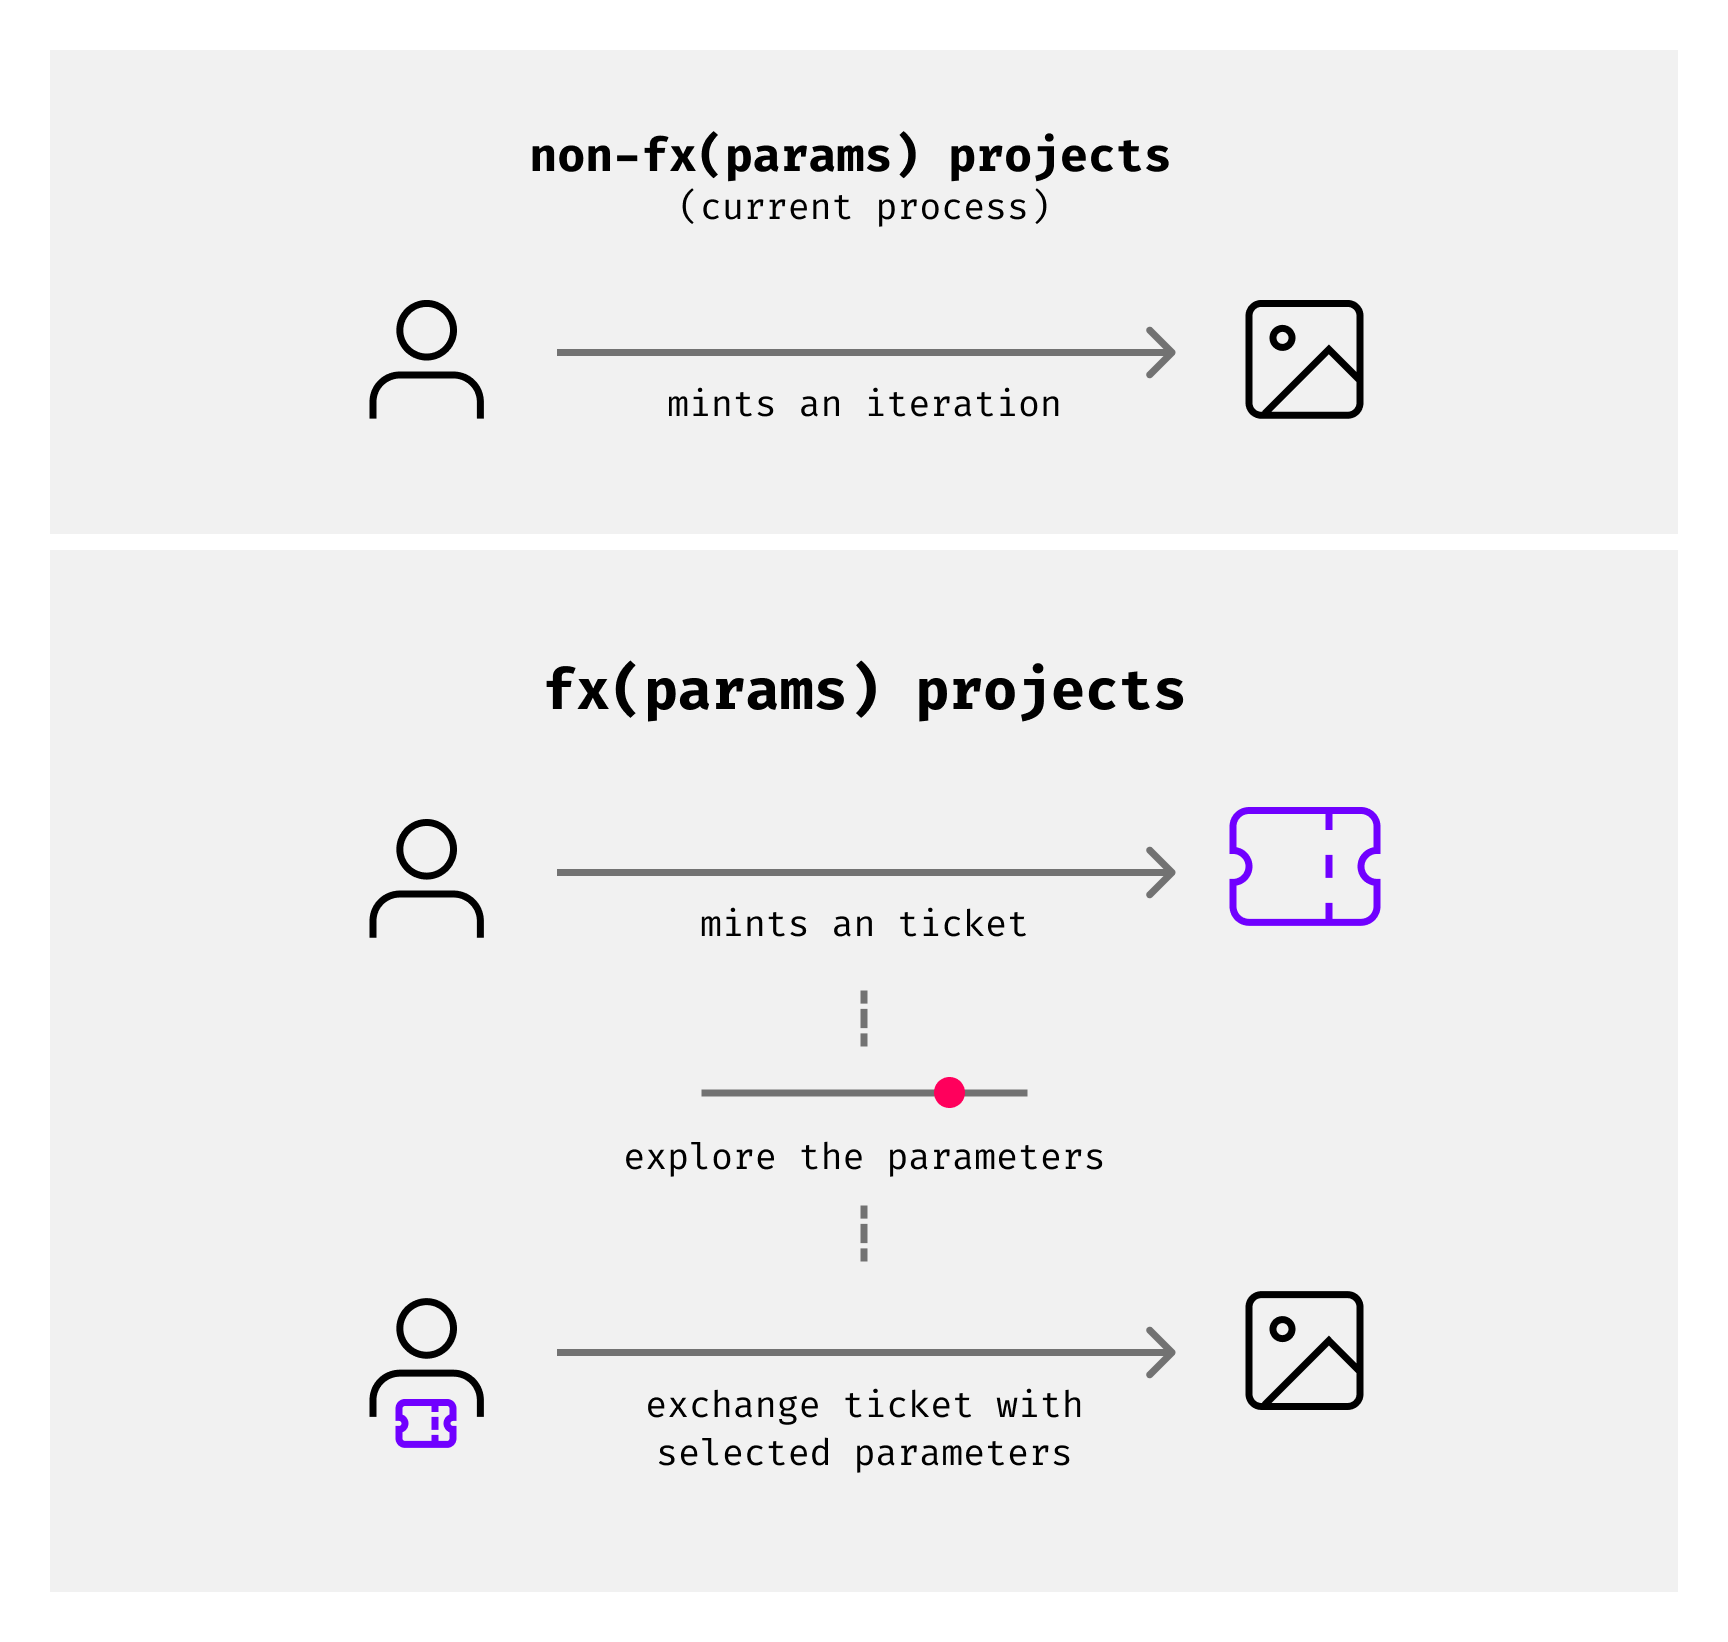
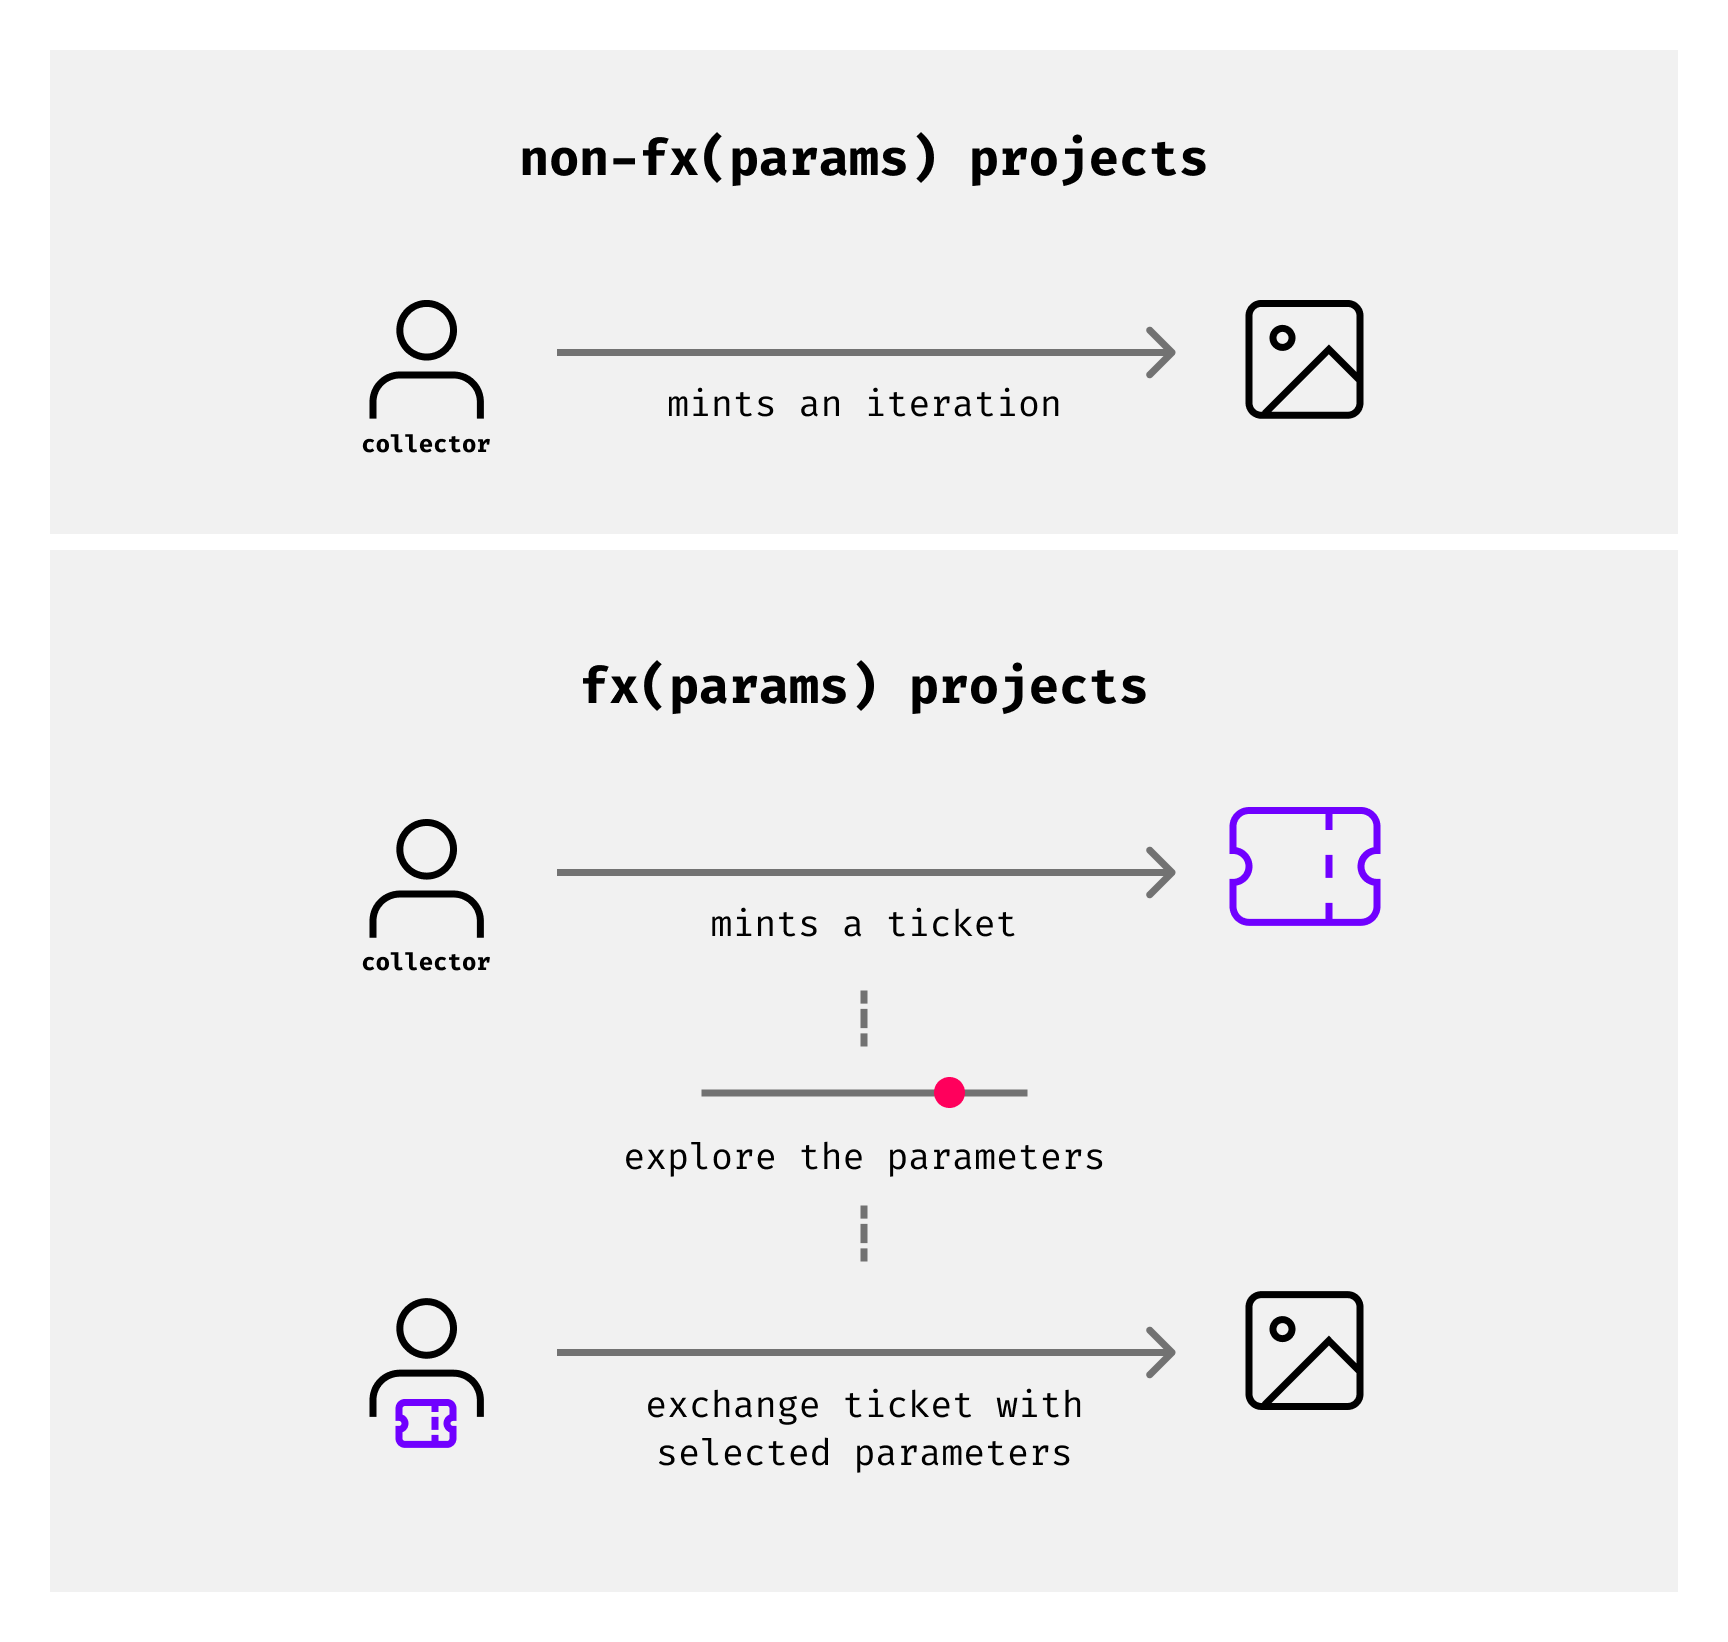
doc > collecting > fxparams

diff --git a/src/doc/collect/fxparams-mint-tickets.md b/src/doc/collect/fxparams-mint-tickets.md
@@ -1,0 +1,84 @@
+---
+title: "fx(params) and mint tickets"
+date: "2023-03-20"
+description: "Documentation on the minting pipeline with fx(params) & the mint tickets."
+---
+
+# fx(params) quick overview
+
+fx(params) is a powerful new module allowing generative artists to define a set of parameters that collectors explore, adjust, and toggle before minting. This optional feature is intended to amplify artistic powers of expression and enables collectors to collaborate in the creative process.
+
+::infobox[fx(params) was introduced by fxhash on March 20, 2023]
+
+# A refined minting experience for fx(params) projects
+
+For projects without fx(params), the minting process is quite straightforward: click on `mint`, get an iteration. Because fx(params) requires inputs from collectors, they need to have enough time to properly explore the parametric space, while having their slot to mint secured.
+
+**fx(params)** introduces an intuitive two-step minting process designed to enhance the creative experience for collectors.
+
+![minting details of fxparams projects](/images/doc/artist/fxparams/tickets.png)
+
+First, mint a ticket to an **fx(params)** project. This ticket allows you to discover endless minting possibilities by playing with different parameter combinations. Then, exchange your ticket to lock in the parameters and mint your favorite output.
+
+Our new minting process unlocks artistic exploration and experimentation like never before, empowering collectors to co-create generative art from infinite perspectives.
+
+After a ticket is bought, it can be exchanged for an iteration through the fx(params) minting interface.
+
+![fxhash minting interface for params](/images/doc/artist/fxparams/mint-interface.png)
+
+# The mint ticket mechanism
+
+The **fx(params)** two-step minting process introduces new dynamics, such as:
+
+- Time needed to explore parameters before minting
+- Collectors keeping tickets without exchanging them
+- Artists sharing the creative process with collectors
+
+To address the nuances of these dynamics and protect the interests of both artists and collectors using **fx(params)**, tickets are subject to a Harberger tax system. This tax mechanism requires ticket holders to pay a daily tax to maintain ownership of an unexchanged ticket.
+
+With a tax in place, we can facilitate and incentivize several important factors at once, such as maximizing the amount of tickets exchanged for artworks, the proper assessment of mint ticket value by collectors, and ensuring artists are compensated for collectors holding unexchanged tickets.
+
+Let’s take a deeper look at how the **fx(params)** mint ticket tax system works in the next section.
+
+## How the mint ticket works
+
+After an artist-defined grace period, **tickets are always listed for sale and subject to a daily proportional tax** until they are exchanged for an artwork.
+
+In other words, once outside of the grace period, ticket holders have two options: pay a daily tax or exchange the ticket for an artwork. This means there is no option to keep the ticket off the market and that, as a ticket holder, you should constantly reassess the ticket’s market value to avoid paying a higher daily proportional tax than necessary.
+
+![Visual representation of tickets taxation](/images/doc/collector/fxparams/ticket-tax.png)
+
+### 🆓 Grace period
+
+The grace period is a duration of time defined by the artist wherein ticket holders can explore the generative algorithm and play with parameters without paying tax on the unexchanged ticket.
+
+Defining the length of the grace period allows artists to further refine and influence the collector’s exploratory process, giving them more or less time to exchange their ticket for an artwork before the daily proportional tax applies.
+
+Grace periods can be as short as one day or longer than multiple lifetimes — it’s entirely up to the artist. When the grace period ends, the tax mechanism kicks in, requiring tickets to be listed on the market and subject to tax for as long as they remain unexchanged.
+
+::infobox[**Careful!** If at the end of the grace period, tax has not been provisioned, owner will lose ownership of their ticket and it will enter foreclosure. Make sure to either exchange your tickets before the end of the grace period, or pay the tax in advance based on the price you want to set and for how long you want the ticket to be covered.]{type=warning}
+
+### 💸 Daily proportional tax
+
+Once an unexchanged ticket falls outside of the grace period, a new set of requirements should be met by the ticket holder to maintain ownership of the ticket.
+
+1. The ticket holder defines a price for the ticket, thereby listing it on the secondary market
+2. A daily tax proportional to the ticket’s list price must be paid to retain ownership
+
+These requirements entail that unexchanged tickets are always for sale and collectable by anyone — and that any salable ticket is subject to the daily tax. **If the ticket tax is not paid**, ownership is forfeited by the owner and the ticket is entered into foreclosure.
+
+The yearly tax is roughly 51% of the ticket price defined by its owner. Moreover, all taxes collected from **fx(params)** projects are sent to their respective creators.
+
+### ⛔ Ticket foreclosure
+
+When a ticket holder fails to pay the daily proportional tax, their ticket is forfeited and entered into foreclosure. During this process, the ticket is auctioned off beginning from its list price and decreases linearly over a 24hr period until it reaches a 0.1 XTZ resting price. Anyone can buy a ticket in foreclosure, including its previous owner.
+
+::infobox[When a ticket is claimed, either during the auction in its foreclosure or at the price defined by the previous owner, the full amount paid by the buyer is transfered the the previous owner. Only taxes are paid to the artists.]
+
+### Extra information
+
+Mint tickets are NFTs: they will appear in your wallet alongside your other NFTs, and you will be able to transfer them.
+
+However, mint tickets cannot be traded on other marketplaces: that's because the marketplace is written into the mint tickets Smart Contract.
+
+::infobox[If a ticket is transferred to another account, the recipient will be responsible for either paying the tax to keep ownership or exchanging the ticket for an iteration]{type=warning}

diff --git a/src/doc/collect/guide.md b/src/doc/collect/guide.md
@@ -1,11 +1,10 @@
 ---
-title: 'Collect & Mint Tokens'
-date: '2021-10-20'
-description: 'How to collect & mint tokens on fxhash ?'
+title: "Collect & Mint Tokens"
+date: "2021-10-20"
+description: "How to collect & mint tokens on fxhash ?"
 ---
 
-This guide will walk you through everything you need to know in order to collect on fxhash. From the basic tools to interact with the *tezos blockchain* to the principles behind fxhash, it's covered in this article.
-
+This guide will walk you through everything you need to know in order to collect on fxhash. From the basic tools to interact with the _tezos blockchain_ to the principles behind fxhash, it's covered in this article.
 
 # Interact with the Tezos blockchain
 
@@ -13,8 +12,7 @@ In order to interact with the Smart Contracts of **fxhash**, you will need to ha
 
 We recommend [Temple](https://templewallet.com/) (browser extension) or [Kukai](https://wallet.kukai.app/) (website).
 
-Once you have a wallet and a tezos address on it, you can synchronize your wallet with fxhash by clicking on the *sync* button. You will need to send tezos to your address in order to purchase tokens on the platform. It can be done through various exchange platforms, such as [coinbase](https://www.coinbase.com/en/how-to-buy/tezos), [kraken](https://www.kraken.com/en-gb/learn/buy-tezos-xtz) or [coinhouse](https://www.coinhouse.com/buy-tezos/) for instance.
-
+Once you have a wallet and a tezos address on it, you can synchronize your wallet with fxhash by clicking on the _sync_ button. You will need to send tezos to your address in order to purchase tokens on the platform. It can be done through various exchange platforms, such as [coinbase](https://www.coinbase.com/en/how-to-buy/tezos), [kraken](https://www.kraken.com/en-gb/learn/buy-tezos-xtz) or [coinhouse](https://www.coinhouse.com/buy-tezos/) for instance.
 
 # How does fxhash work ?
 
@@ -22,18 +20,17 @@ Once you have a wallet and a tezos address on it, you can synchronize your walle
 
 ## Overview
 
-* Click on the mint button
-* A confirmation is sent to your wallet
-* Confirm the transaction
-* Transaction is sent to the blockchain
-* You become the owner of an unique iteration
+- Click on the mint button
+- A confirmation is sent to your wallet
+- Confirm the transaction
+- Transaction is sent to the blockchain
+- You become the owner of an unique iteration
 
 ## Waiting to be signed
 
-While the metadata is being generated, the tokens will appear as *[waiting to be signed]*
+While the metadata is being generated, the tokens will appear as _[waiting to be signed]_
 
 ![Waiting to be signed example](/images/articles/guide-collect/waiting-to-be-signed.jpg)
-
 
 # Opening hours for new content
 
@@ -45,10 +42,9 @@ We are currently experimenting with the opening schedule. Maybe it will stay, ma
 
 You can find the opening schedule under [/community/opening-schedule](/community/opening-schedule)
 
-
 # Be careful with your tezos
 
 fxhash is an open generative art platform that is intended, but not promised or guaranteed, to be correct, complete, and up-to-date. We have taken reasonable steps to ensure that the information contained in this website is accurate, but we cannot represent that this website is free of errors. You accept that the information contained on this website may be erroneous and agree to conduct due diligence to verify any information obtained from this website and/or resources available on it prior to taking any action. You expressly agree not to rely upon any information contained in this website.
 
-Before purchasing mints from any artist (including any fxhash verified user) offered on the site or marketplace, you are advised to verify the artist verification independently. Although we may choose in our sole discretion to intervene or attempt to resolve a dispute between you and other fxhash users or Third Party Sites, you agree that we have no obligation to do so and that all transactions are ultimately solely between you and the applicable fxhash users or Third-Party Tools. 
+Before purchasing mints from any artist (including any fxhash verified user) offered on the site or marketplace, you are advised to verify the artist verification independently. Although we may choose in our sole discretion to intervene or attempt to resolve a dispute between you and other fxhash users or Third Party Sites, you agree that we have no obligation to do so and that all transactions are ultimately solely between you and the applicable fxhash users or Third-Party Tools.
 The verification badge provided shall help collectors but is no substitute for doing your diligence.
